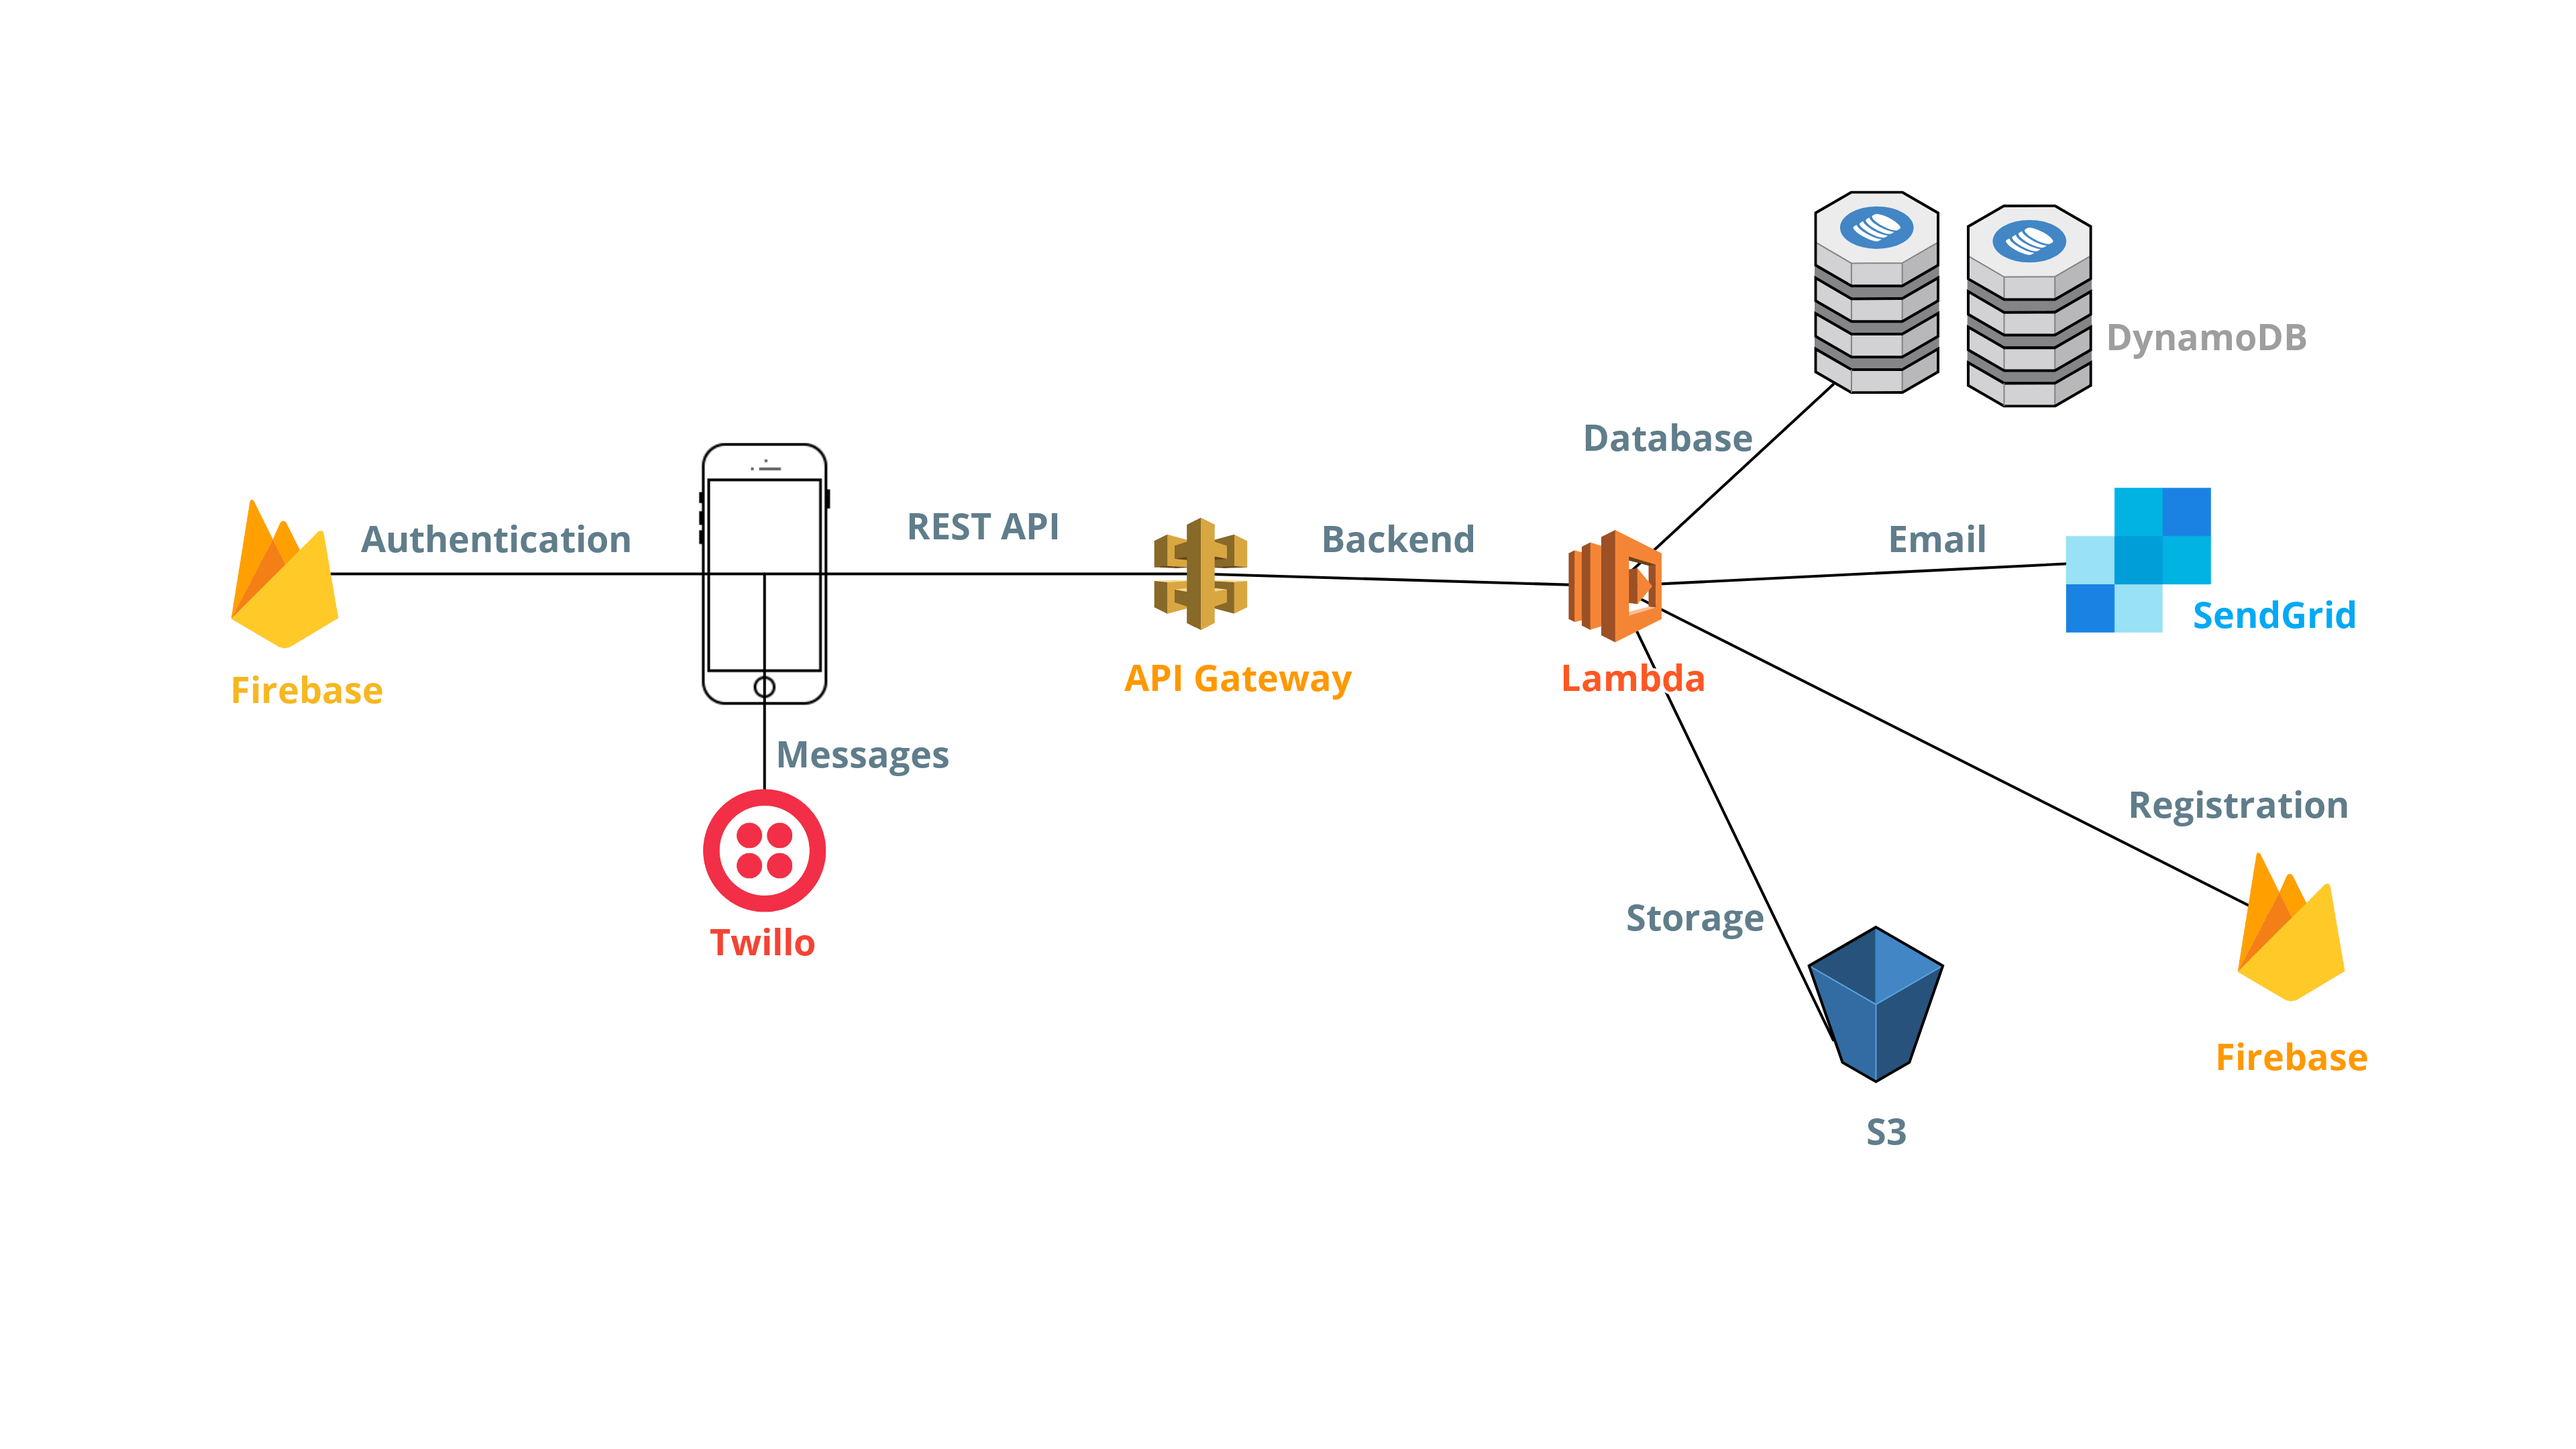
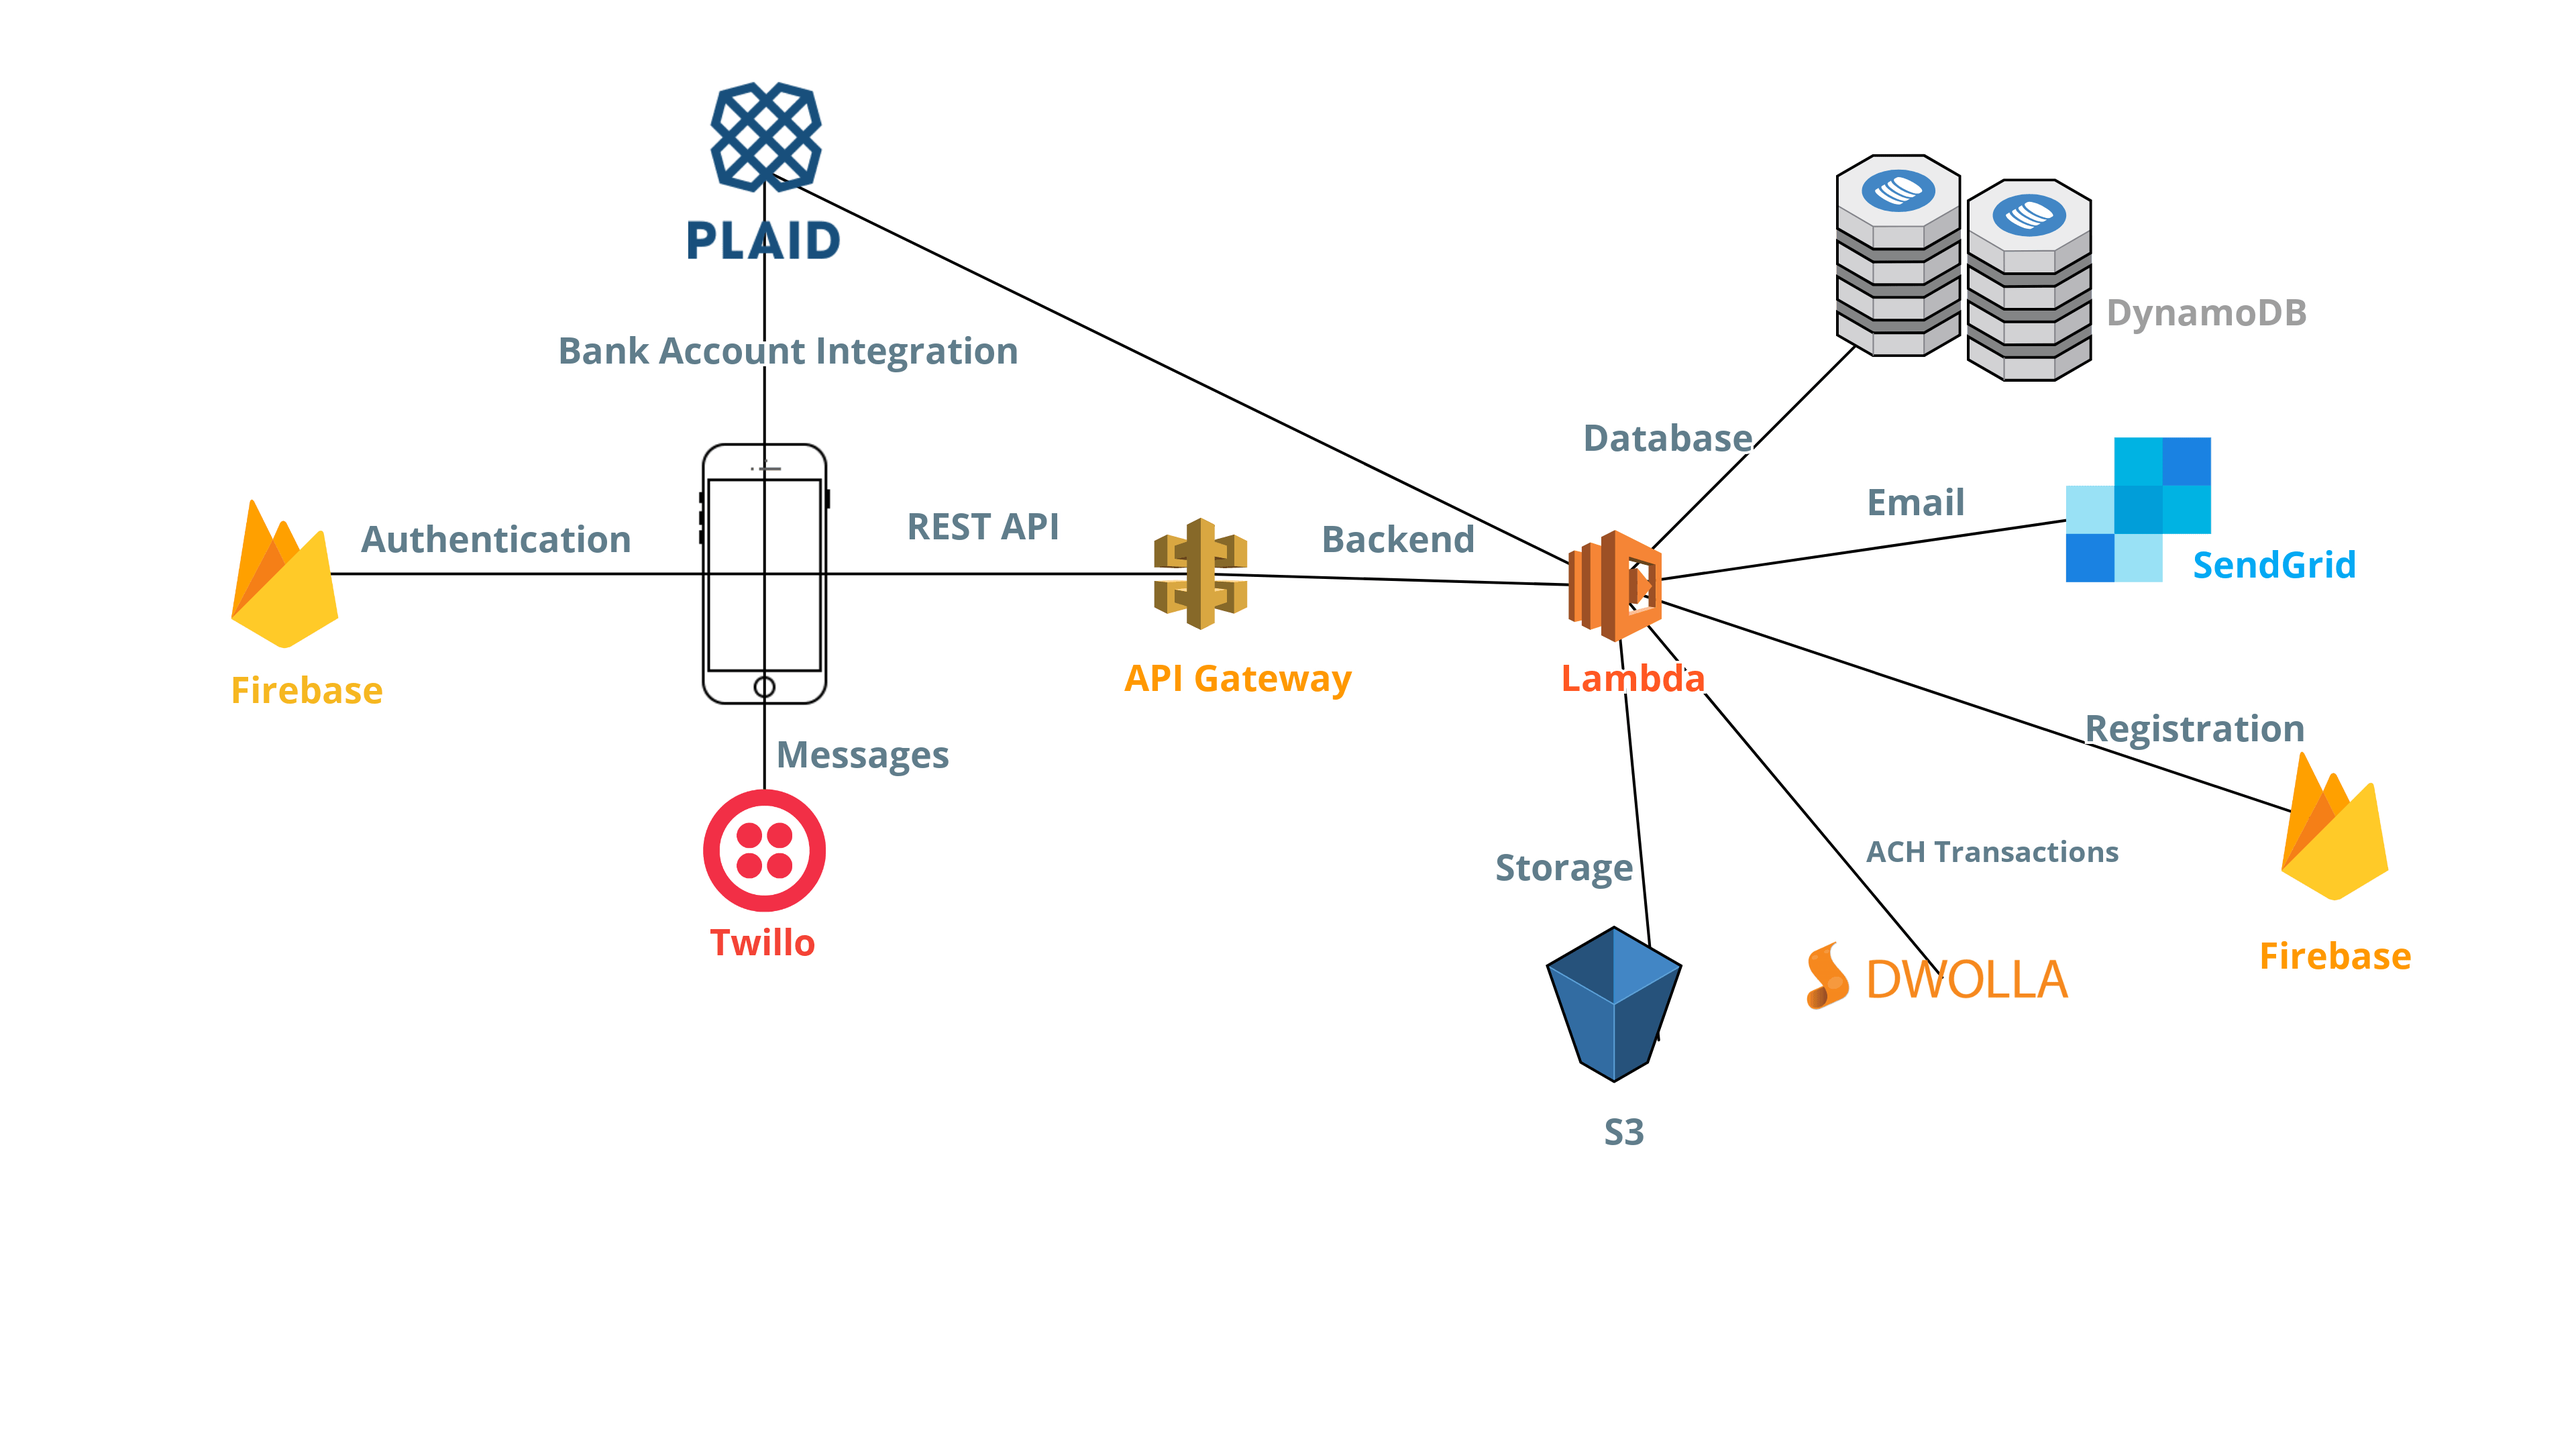
Phase 3 complete. Added dwolla API to backend and manage responses to Application flow

diff --git a/Dracker/Application Flow/Transaction/Detail.swift b/Dracker/Application Flow/Transaction/Detail.swift
@@ -181,6 +181,12 @@ class Detail: UIViewController {
             loading(target: self, completion: { (_) in
                 post_settle_transaction(parameters: parameters, completion: { (res) in
                     if res.isFailure { return }
+                    let val = res.value as! Int
+                    if val == 404 {
+                        stop_loading()
+                        present_alert_error(message: .cannot_settle, target: self)
+                        return
+                    }
                     //Send a message to the creditor about debt repayment
                     let message = "\(name!) payed you \(amount.as_amount()) for \"\(description!)\""
                     send_message(phone: (self.data?.phone)!, message: message)

diff --git a/Dracker/Application Flow/Secondary Flow/Onboarding.swift b/Dracker/Application Flow/Secondary Flow/Onboarding.swift
@@ -139,8 +139,8 @@ class Onboarding: UIViewController {
             present_alert_error(message: .incorrect_phone, target: self)
             return
         }
-    
         verification = random_code()
+        print(verification)
         let message = "\(verification!) is your Dracker confirmation code."
         send_message(phone: number, message: message)
         disabled_top?.constant = -49.50

diff --git a/Dracker/Notifications/Alerts.swift b/Dracker/Notifications/Alerts.swift
@@ -35,6 +35,7 @@ enum error_messages: String {
     case touchid_not_enabled = "Touch ID must be enabled to set a passcode."
     case phone_not_match = "Phone number does not match with the one in records."
     case funding_error = "There was an error connecting to your bank account"
+    case cannot_settle = "This transaction can not be settled at this time."
 }
 
 //MARK: Create Alert

diff --git a/DrackerAPI/transaction/settle/settle_transaction.py b/DrackerAPI/transaction/settle/settle_transaction.py
@@ -1,45 +1,52 @@
 import boto3
+import dwollav2
+import os
 
+client = boto3.resource('dynamodb')
 bucket = 'drackerimages'
-
+user_table = client.Table('DrackerUser')
 def lambda_handler(event, context):
     transaction_id = event['transaction_id']
     payer_uid = event['payer_uid']
     payee_uid = event['payee_uid']
     time = event['time']
     #Get client and tables
-    client = boto3.resource('dynamodb')
     payee_table = client.Table(payee_uid)
     payer_table = client.Table(payer_uid)
-    #Update payee table
-    response = payee_table.get_item(
+    payee_response = payee_table.get_item(
         Key={
             'transaction_id' : transaction_id
         }
     )
-    item = response['Item']
+    payer_response = payer_table.get_item(
+        Key={
+            'transaction_id' : transaction_id
+        }
+    )
+    payee_item = payee_response['Item']
+    payer_phone = payee_item['phone']
+    payer_item = payer_response['Item']
+    payee_phone = payer_item['phone']
+    amount = payer_item['amount']
+    transfer = initiate_transfer(payer_phone, payee_phone, amount)
+    if transfer["message"] != "SUCCESS":
+        return 404
     #update time
-    item['settelement_time'] = time
+    payee_item['settelement_time'] = time
     #remove unnecessary info
-    item.pop('notification_identifier', None)
-    item.pop('tagged_image', None)
-    item.pop('time', None)
-    payee_table.put_item(Item=item)
+    payee_item.pop('notification_identifier', None)
+    payee_item.pop('tagged_image', None)
+    payee_item.pop('time', None)
+    payee_table.put_item(Item=payee_item)
     #Update payer table
-    response = payer_table.get_item(
-        Key={
-            'transaction_id' : transaction_id
-        }
-    )
-    item = response['Item']
-    item_key = item['tagged_image']
+    item_key = payer_item['tagged_image']
     #update time
-    item['settelement_time'] = time
+    payer_item['settelement_time'] = time
     #remove unnecessary info
-    item.pop('notification_identifier', None)
-    item.pop('tagged_image', None)
-    item.pop('time', None)
-    payer_table.put_item(Item=item)
+    payer_item.pop('notification_identifier', None)
+    payer_item.pop('tagged_image', None)
+    payer_item.pop('time', None)
+    payer_table.put_item(Item=payer_item)
     # Delete Image
     if item_key != 'noImage':
         s3 = boto3.client('s3')
@@ -48,3 +55,44 @@ def lambda_handler(event, context):
         Key=item_key,
         )
     return 200
+def initiate_transfer(payer_phone, payee_phone, amount):
+    try:
+        payer_resource = user_table.get_item(
+            Key={
+                'phone': payer_phone
+                }
+        )
+        payer_item = payer_resource['Item']
+        dest = payer_item['funding_source']
+        payee_resource = user_table.get_item(
+            Key={
+                'phone': payee_phone
+                }
+        )
+        payee_item = payee_resource['Item']
+        source = payee_item['funding_source']
+        client = dwollav2.Client(
+            key = os.environ.get('dwolla_key'),
+            secret = os.environ.get('dwolla_secret'),
+            environment = os.environ.get('dwolla_env')
+        )
+        app_token = client.Auth.client()
+        request_body = {
+            '_links': {
+                'source': {
+                'href': source
+                },
+                'destination': {
+                  'href': dest
+                }
+            },
+            'amount': {
+                'currency': 'USD',
+                'value': amount
+            }
+        }
+        transfer = app_token.post('transfers', request_body)
+        return {"message" : "SUCCESS"}
+    except Exception as err:
+        print(err)
+        return {"message" : "ERROR"}

diff --git a/README.md b/README.md
@@ -9,7 +9,7 @@ An iOS app to track/manage debt. This app allows users to create transactions, a
 ## UI
 
 #### Login/Register
-<img src="img/login.png" width="180" height="310">&nbsp;&nbsp;&nbsp;&nbsp;<img src="img/register.png" width="180" height="310">
+<img src="img/login.png" width="180" height="310">&nbsp;&nbsp;&nbsp;&nbsp;<img src="img/register.png" width="180" height="310">&nbsp;&nbsp;&nbsp;&nbsp;<img src="img/register2.png" width="180" height="310">&nbsp;&nbsp;&nbsp;&nbsp;<img src="img/register3.png" width="180" height="310">
 
 
 #### Dashboard
@@ -34,7 +34,7 @@ An iOS app to track/manage debt. This app allows users to create transactions, a
 <img src="img/authentication.png" width="180" height="310">&nbsp;&nbsp;&nbsp;&nbsp;<img src="img/passcode.png" width="180" height="310">
 
 #### Miscellaneous
-<img src="img/quick_actions.png" width="180" height="310">&nbsp;&nbsp;&nbsp;&nbsp;<img src="img/notifications.png" width="180" height="310">&nbsp;&nbsp;&nbsp;&nbsp;<img src="img/no_internet.png" width="180" height="310">&nbsp;&nbsp;&nbsp;&nbsp;<img src="img/onboarding.png" width="180" height="310">
+<img src="img/quick_actions.png" width="180" height="310">&nbsp;&nbsp;&nbsp;&nbsp;<img src="img/notifications.png" width="180" height="310">&nbsp;&nbsp;&nbsp;&nbsp;<img src="img/no_internet.png" width="180" height="310">&nbsp;&nbsp;&nbsp;&nbsp;<img src="img/onboarding.png" width="180" height="310">&nbsp;&nbsp;&nbsp;&nbsp;<img src="img/bank.png" width="180" height="310">&nbsp;&nbsp;&nbsp;&nbsp;<img src="img/plaid.png" width="180" height="310">
 
 #### Email Templates
 <img src="img/welcome_email.jpg" width="200" height="310">&nbsp;&nbsp;&nbsp;&nbsp;<img src="img/verified_email.png" width="180" height="310">&nbsp;&nbsp;&nbsp;&nbsp;<img src="img/passwordReset_email.jpg" width="200" height="310">&nbsp;&nbsp;&nbsp;&nbsp;<img src="img/emailChange_email.jpg" width="210" height="310">
@@ -48,6 +48,8 @@ An iOS app to track/manage debt. This app allows users to create transactions, a
 - [x] Unique QR Code and adding transaction using QR Code.
 - [x] Access to data anywhere via AWS.
 - [x] Text messages when payments are completed.
+- [x] Ability to connect bank account (plaid integration).
+- [x] Sending/Recieving money through ACH.  
 - [x] Taggable transactions. An image (such as a bill) can be tagged with the transaction.
 - [x] Saving tagged images to camera roll.
 - [x] Enabling/disabling user notifications.
@@ -56,9 +58,6 @@ An iOS app to track/manage debt. This app allows users to create transactions, a
 - [x] Enabling/disabling touch ID.
 - [x] 3D touch compatibility for Quick Actions.
 - [x] 3D touch for Dashbard table cells.
-
-### Upcoming
-- \[ ] Support for actually moving around money.
 
 ## Requirements
 
@@ -74,8 +73,14 @@ An iOS app to track/manage debt. This app allows users to create transactions, a
 - Twillo is used to send messages for payment completion.
 - Firebase is used for Authentication.
 - SendGrid for emails.
+- AWS Lambda fir backend
+- API Gateway for API calls to backend
+- Plaid for bank account integration
+- Dwolla for making ACH Transactions
 
-## Libraries/Modules Used
+## Modules/Integrations Used
+- Dwolla (ACH Transactions API)
+- Plaid (Connecting user's bank account to dwolla)
 - AWS (data storage)
 - Twillo (payment completion notification)
 - Firebase (Login/Authentication)
